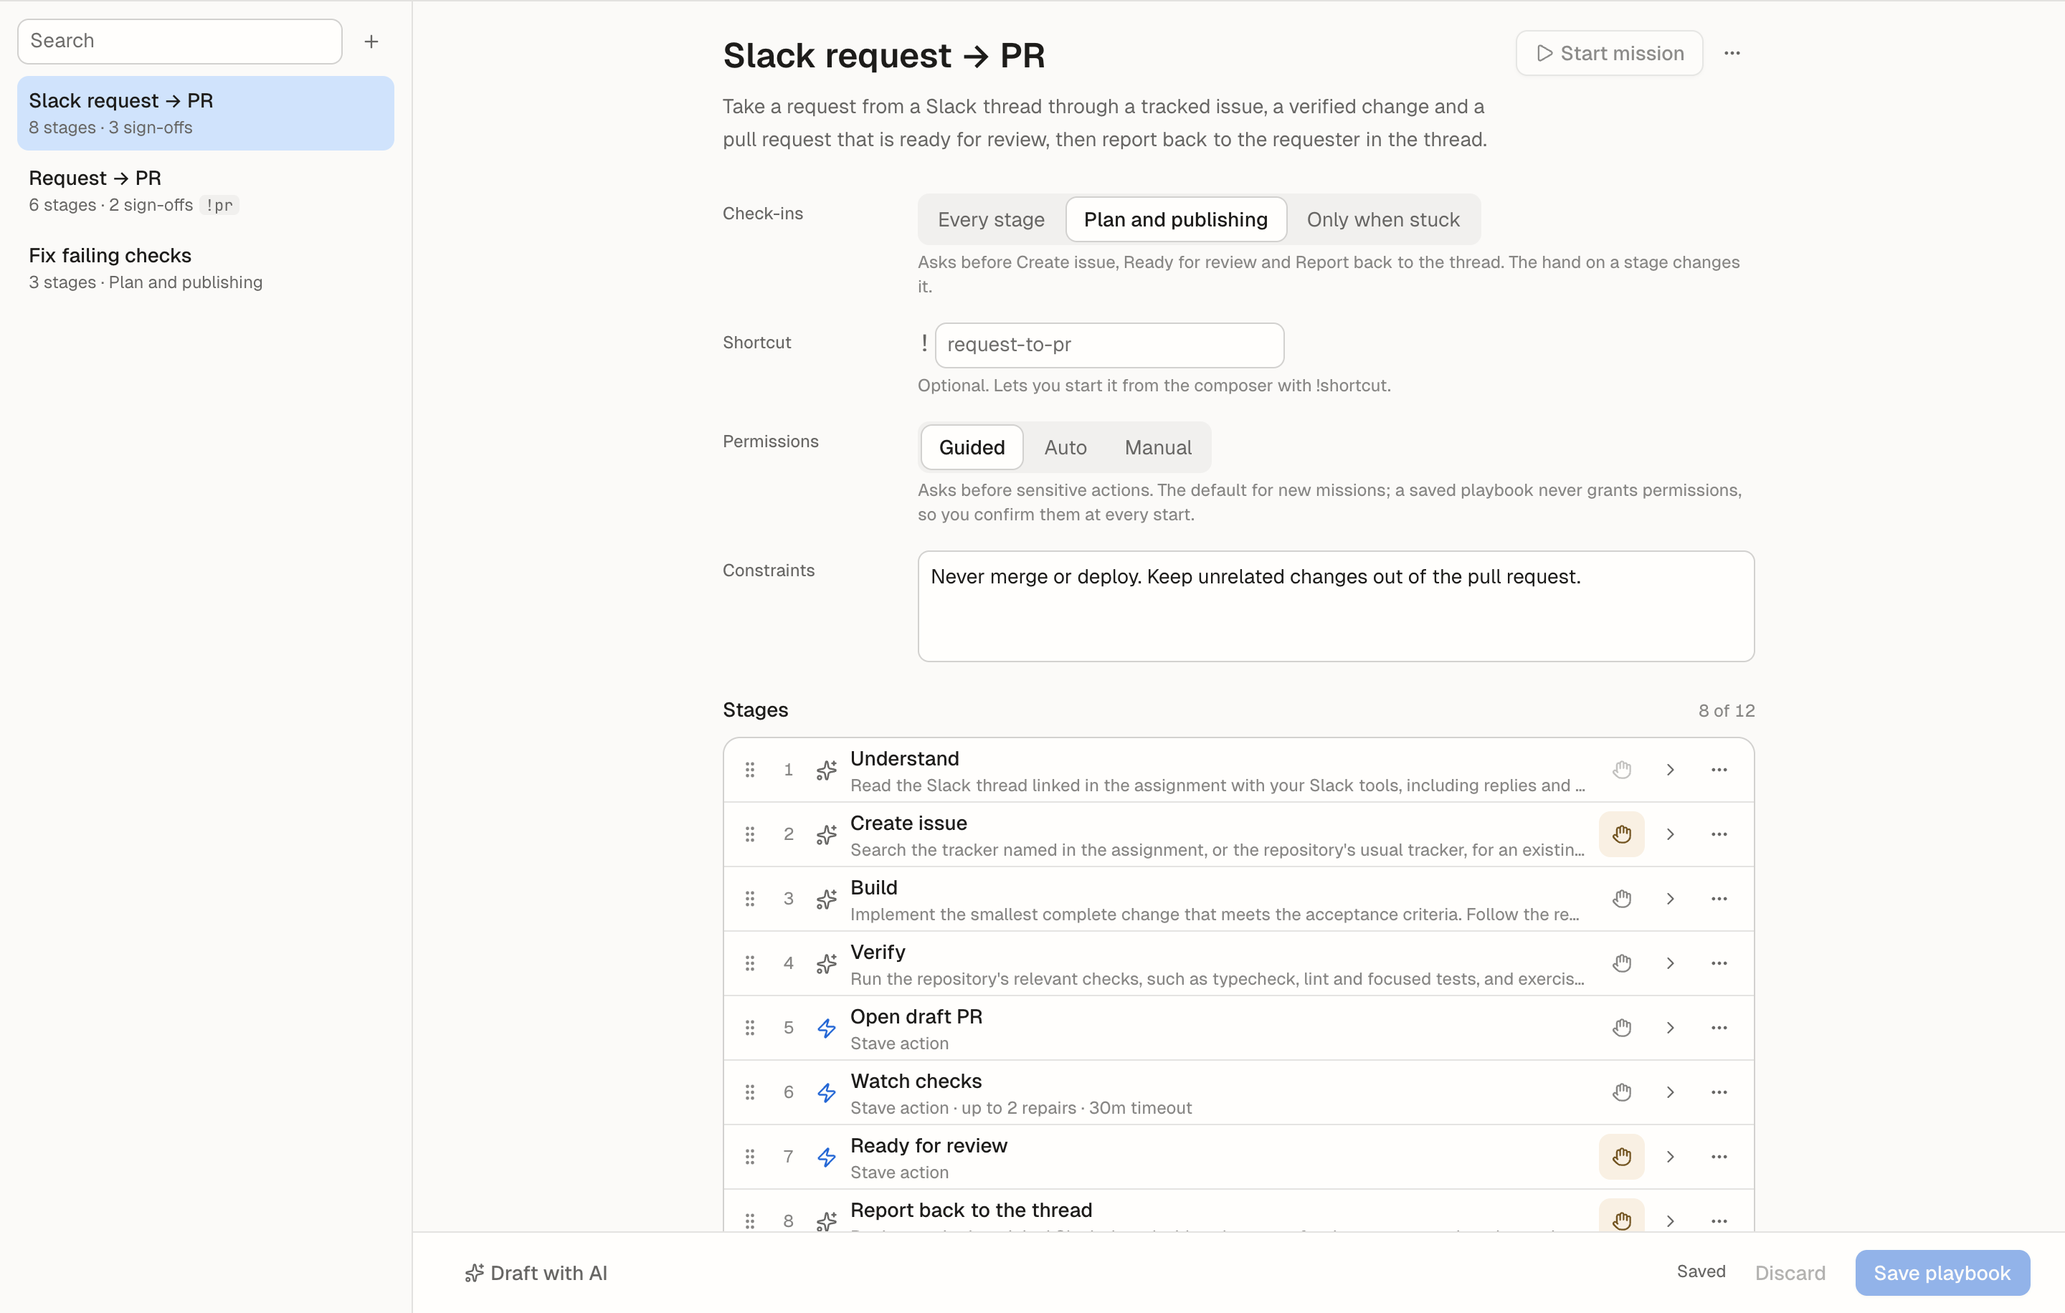
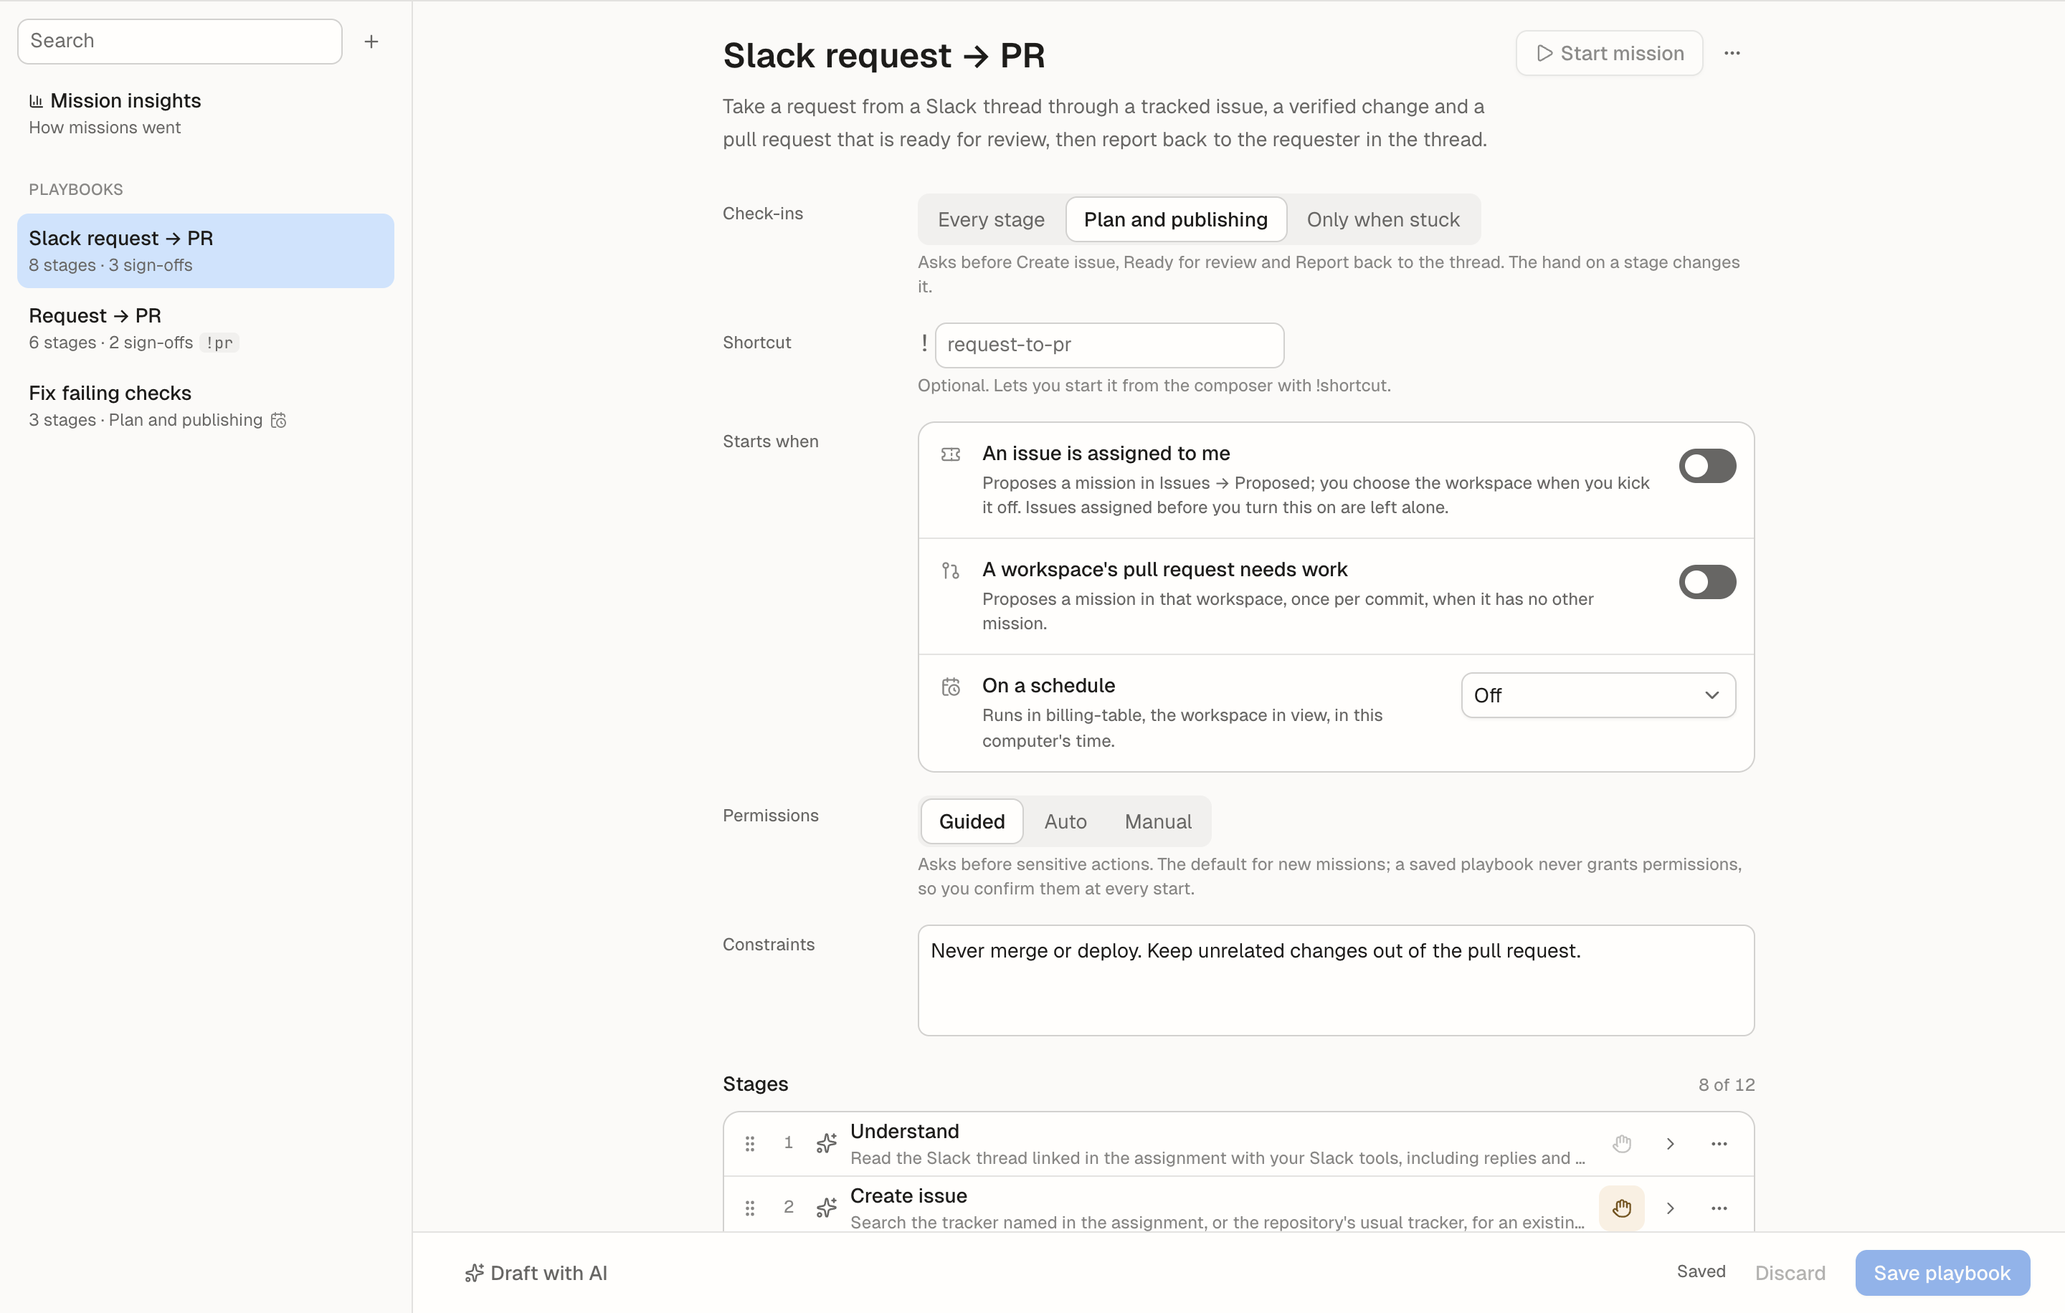
docs: document playbook start conditions and proposed missions

diff --git a/site/src/landing-page.tsx b/site/src/landing-page.tsx
@@ -98,7 +98,7 @@ const HANDOFF_STEPS = [
   {
     title: "Save how you work as a playbook",
     description:
-      "The stages you would otherwise prompt one by one — understand, build, verify, open a PR — each with when it is done and whether it asks you first.",
+      "The stages you would otherwise prompt one by one — understand, build, verify, open a PR — each with when it is done and whether it asks you first. A new issue, failing checks or a schedule can propose the next mission.",
     href: "./docs/playbooks/",
     icon: BookOpen,
   },

diff --git a/docs/features/issues.md b/docs/features/issues.md
@@ -44,7 +44,7 @@ The workspace is created, the ticket is filed in the workspace Information panel
 ### Key Controls
 
 - **Header** — per-source sync age in Jira-then-Crane order, a `stale` chip when a source has missed two refresh intervals, a `partial` chip when the tracker had more rows than the page budget allows, plus Refresh and Close. A footer under the list repeats that the loaded set is a prefix.
-- **View tabs** — *Assigned to me*, *All open*, *Recently done* (closed in the last 14 days), *In Stave* (has a Stave run). Switching tabs clears the filter chips, because the chips mean something different in each view.
+- **View tabs** — *Assigned to me*, *All open*, *Recently done* (closed in the last 14 days), *In Stave* (has a Stave run). Switching tabs clears the filter chips, because the chips mean something different in each view. After a divider, *Proposed* lists the [missions playbooks proposed](#proposed-missions).
 - **Filter chips** — Source, Status, Priority, Project, Label, and an *In Stave / Not in Stave* selector. Each chip is multi-select and shows what is selected; Reset clears the chips and keeps the tab.
 - **Layout** — List or Board. List is the grouped row surface. Board is one column per status category. Switching layout keeps the same filters and sort; grouping is list-only because the board already groups by status.
 - **Group and Sort** — in List, group by Status or Due date; in both layouts, sort by Priority, Due date, Updated, or Key. Group headers collapse and show a count.
@@ -88,13 +88,36 @@ Right-click a row and choose **Attach to `<workspace>`**. The ticket is register
 - For a Crane kickoff with write-back, the run card reads *Reported to Crane*; without it, *Local only*.
 - A finished run flips the badge to *Done in Stave*; a failed one to *Failed*, with the error code on the run card.
 
+### Proposed Missions
+
+The **Proposed** tab lists missions that a playbook's
+[start conditions](playbooks.md#start-conditions) or a triage mission
+proposed: for an assigned issue, a pull request that needs work, a schedule,
+or a request found while triaging. Its count shows on the tab, and Fleet's
+header shows **N proposed** while any wait; clicking it opens this tab.
+
+![Issues → Proposed: missions waiting to start, each with its source, reason, playbook and workspace, and below them the ones decided recently](../screenshots/proposed-missions.png)
+
+- Each row names the source, why it was proposed, the playbook, where it runs
+  and how long ago. The link icon opens the issue, pull request or thread.
+- **Kick off** (an issue) opens the ticket's kickoff with the playbook chosen.
+  **Start** creates a task in the pull request's or schedule's workspace — or,
+  for a triage proposal, in the workspace open now — and opens **Start a
+  mission** with the assignment filled in. The proposal is marked started once
+  the mission starts.
+- **Dismiss** sets it aside. The same issue, commit or request is never
+  proposed again.
+- **Decided recently** lists the last started and dismissed proposals,
+  including missions a playbook started on its own, with **Open** to go to
+  one.
+
 ### Wake A Project When An Issue Arrives
 
 A [project](projects.md) can watch Issues: turn on **An issue is assigned to
 me** in the project's **Starts when** tab. A newly assigned issue then wakes
 the project's coordinator, which decides whether a mission should follow.
-While any project watches, Stave keeps Issues fresh in the background, at most
-every ten minutes, even when the Issues view is closed.
+While any project or playbook watches, Stave keeps Issues fresh in the
+background, at most every ten minutes, even when the Issues view is closed.
 
 ## Files And Data
 
@@ -165,3 +188,4 @@ every ten minutes, even when the Issues view is closed.
 - [Provider Sandbox and Approval Guide](provider-sandbox-and-approval.md) — what the autonomy presets mean
 - [Local MCP User Guide](local-mcp-user-guide.md) — the read-only tracker listing tool
 - [Missions](missions.md)
+- [Playbooks](playbooks.md#start-conditions) — start conditions that propose missions

diff --git a/docs/features/playbooks.md b/docs/features/playbooks.md
@@ -7,7 +7,7 @@ by one, each with an instruction and a condition that says when it is done.
 Start a [mission](missions.md) with it and Stave runs the stages for you. A
 [project](projects.md)'s coordinator picks from the same playbooks.
 
-![The Playbooks tab: saved playbooks on the left, and the selected playbook's check-ins, shortcut, permissions, constraints and stages](../screenshots/playbooks.png)
+![The Playbooks tab: saved playbooks on the left, and the selected playbook's check-ins, shortcut, start conditions, permissions, constraints and stages](../screenshots/playbooks.png)
 
 ## When To Use It
 
@@ -46,6 +46,8 @@ Start a [mission](missions.md) with it and Stave runs the stages for you. A
   the stages that ask. Changing a single stage's hand marks the check-ins
   **Custom**; choosing a preset resets them.
 - **Shortcut** lets you start the playbook with `!shortcut` in the composer.
+- **Starts when** lets the playbook propose missions by itself (see
+  [Start conditions](#start-conditions)).
 - **Permissions** is the default the Start sheet preselects. It grants nothing
   by itself; every start confirms its own permissions.
 - **Constraints** are rules every stage follows.
@@ -77,6 +79,34 @@ a preview deployment, and waits for it — up to 30 minutes.
 - A script that was running when Stave stopped is not run again: the stage
   fails and says so, and **Retry stage** runs it anew.
 
+### Start conditions
+
+**Starts when** lists what proposes a mission with the playbook. Proposed
+missions wait in [Issues → Proposed](issues.md#proposed-missions) for you to
+start or dismiss them.
+
+- **An issue is assigned to me** — for each issue newly assigned to you in
+  Issues (Crane or Jira), optionally only those matching a label, project or
+  key. Issues assigned before you turned it on are left alone. Starting one
+  opens the ticket's kickoff with this playbook chosen, so you pick its
+  workspace.
+- **A workspace's pull request needs work** — when checks fail, changes are
+  requested, or both, on the pull request of any workspace. Once per commit,
+  and only in a workspace no other mission works in.
+- **On a schedule** — every day, weekdays, Mondays at 09:00 or every 4 hours,
+  in this computer's time, in the workspace in view when you turned it on. A
+  time that passed while Stave was closed is proposed when it opens, never
+  started late.
+- **Start on its own** — pull request and scheduled missions start without
+  asking, on a new task in their workspace. They consent to nothing outside
+  this machine: stages that publish, open pull requests or run scripts still
+  wait for you. A playbook whose first stage publishes always waits.
+
+Issues keep refreshing in the background, every 10 minutes, while a playbook
+watches for assigned issues. Pull requests are read as the workspace's PR
+status updates. A mission that starts on its own shows under **Decided
+recently** in Proposed with a link to it.
+
 ### Draft with AI
 
 Describe how you work in a sentence, or paste an example of the steps you took
@@ -100,6 +130,12 @@ The templates cover pull requests — **Request → PR**, **Slack request → PR
 **Research a question**, **Draft a decision document**, **Investigate a
 problem** (changes no files), **Plan, build and verify**, **Coordinate
 independent tasks** (through delegated tasks) and **Independent review**.
+
+**Triage requests** reads where requests reach you — the places its assignment
+names, otherwise your Slack mentions and tickets assigned to you — and proposes
+a mission for each one worth doing with `stave_propose_mission`. It proposes
+only; it never replies or starts work. Give it a schedule under **Starts
+when** to triage every morning.
 
 ### Save a playbook from a finished mission
 

diff --git a/docs/architecture/code-organization.md b/docs/architecture/code-organization.md
@@ -40,6 +40,7 @@ Additional focused owners:
 | Missions                         | `src/lib/missions/policy.ts` decides; `electron/host-service/supervision/mission-runtime.ts` performs turns and `mission-actions.ts` performs Stave actions; `src/lib/missions/mission-view.ts` projects what every surface shows; `src/lib/missions/usage.ts` sums what the mission's turns spent; `src/lib/missions/insights.ts` aggregates ended missions for Mission insights | `tests/mission-policy.test.ts`, `tests/mission-runtime.test.ts`, `tests/mission-actions.test.ts`, `tests/mission-scenarios.test.ts`, `tests/mission-usage.test.ts`, `tests/mission-insights.test.ts` |
 | Mission surfaces                 | `src/components/missions/` (bar, panel, sign-off, Start sheet, Fleet strip) over `src/store/missions-store.ts` and `src/store/fleet-missions-store.ts`; `src/lib/missions/start-sheet.ts` and `pre-start-checks.ts` hold the sheet's rules, including Start at | `tests/mission-bar.test.tsx`, `tests/mission-panel.test.tsx`, `tests/mission-start-consent.test.ts`, `tests/mission-start-at-stage.test.ts`, `tests/pre-start-checks.test.ts`, `tests/mission-fleet-attention.test.ts` |
 | Playbooks                        | `src/lib/playbooks/schema.ts` validates; `library.ts` edits; `draft-with-ai.ts` drafts; `src/components/playbooks/` is the Playbooks tab | `tests/playbook-library.test.ts`, `tests/playbook-editor.test.tsx`, `tests/e2e/playbooks.e2e.ts` |
+| Proposed missions                | `src/lib/playbooks/starts-when.ts` edits a playbook's start conditions; `electron/host-service/supervision/proposal-runtime.ts` evaluates them and records proposals over `electron/persistence/mission-store.ts`; `src/store/proposals-store.ts` loads them and hands pull requests to the host; `src/components/layout/issues/ProposedMissionsPanel.tsx` is Issues → Proposed | `tests/proposal-runtime.test.ts`, `tests/mission-tools.test.ts` |
 | Projects                         | `src/lib/projects/policy.ts` decides; `electron/host-service/supervision/project-runtime.ts` starts missions and wakes the coordinator over `electron/persistence/project-store.ts`; `src/lib/projects/briefing.ts` briefs the coordinator; `src/lib/projects/models.ts` lists the models a mission may run on, and `electron/host-service/idle-task.ts` opens a mission's task on one | `tests/idle-task.test.ts`, `tests/project-triggers.test.ts`, `tests/project-policy.test.ts`, `tests/project-runtime.test.ts`, `tests/project-store.test.ts`, `tests/project-memory-library.test.ts`, `tests/project-scenarios.test.ts` |
 | Project surfaces                 | `src/components/projects/` (Projects view, project home rows and tabs, Starts when, coordinator conversation, New project dialog, Fleet rollup) over `src/store/projects-store.ts`; `src/components/layout/SidebarPrimaryNav.tsx` lists open projects | `tests/project-home-view.test.tsx` |
 

diff --git a/docs/superpowers/specs/2026-09-26-projects-missions-playbooks-design.md b/docs/superpowers/specs/2026-09-26-projects-missions-playbooks-design.md
@@ -831,6 +831,22 @@ Phase 1 shipped as designed, with these deviations:
   computed from mission events for the report footer, and **Mission insights**
   in the Playbooks tab aggregates them per playbook and per provider over 7,
   30 or 90 days, with cost per mission.
+- **Start conditions (Phase 2).** A playbook's optional `startsWhen` replaces
+  the sketched `triggers` list: an assigned issue (with a filter), a
+  workspace's pull request with failing checks or requested changes, a
+  schedule in a named workspace, and `autoStart`. Each condition carries the
+  time it was turned on, and only later occurrences count. The host's proposal
+  runtime records every occurrence in `mission_trigger_seen` before any side
+  effect and proposals in `mission_proposals`. Issues come from the main
+  process's tracker cache; pull requests come from the renderer's PR status.
+  Auto-start covers pull request and schedule conditions only, in a workspace
+  no mission works in, with the first stage not publishing and no external
+  effect authorized. An issue proposal starts through the ticket's kickoff, so
+  the user picks its workspace.
+- **Proposed.** The Issues tab lists pending proposals with Start and Dismiss,
+  then those decided recently; Fleet's header shows the count. A triage
+  mission's `stave_propose_mission` defaults to Request → PR and dedupes by the
+  request's key. **Triage requests** is the triage template.
 
 
 ## 16. As Built (Phase 3)
@@ -862,8 +878,8 @@ Phase 3 shipped as designed, with these deviations:
   a newly assigned issue (from Issues, refreshed in the background while a
   project watches), on failing checks, requested changes or a merge of a
   mission's pull request, and on a schedule. They wake the coordinator only;
-  starting stays the coordinator's call and the user's approval. Standalone
-  mission triggers and the Proposed tab (Phase 2) are not built.
+  starting stays the coordinator's call and the user's approval. Playbook
+  start conditions and the Proposed tab are Phase 2 (see §15).
 - **Restarts.** Quitting pauses every active project with a marked reason and
   relaunching resumes exactly those; delivered changes are not re-sent, a
   start interrupted halfway is marked failed instead of replayed, and missed

diff --git a/docs/superpowers/plans/2026-09-26-projects-missions-playbooks.md b/docs/superpowers/plans/2026-09-26-projects-missions-playbooks.md
@@ -934,4 +934,21 @@ Built after the twenty changes, closing deviations the As-built notes list:
   schedule) wakes the coordinator through `collectPendingTriggers`, with seen
   occurrences kept in `project_trigger_seen`; the coordinator conversation
   docks beside the project.
-
+- [x] `feat(projects): pause projects on quit and end them on a date` —
+  quitting pauses active projects with a marked reason and relaunch resumes
+  exactly those; an end date expires a project.
+- [x] `feat(projects): search the library and link it from Information`.
+- [x] `feat(missions): compare missions per playbook and provider` —
+  `src/lib/missions/insights.ts` and **Mission insights** in the Playbooks tab.
+- [x] `feat(playbooks): add templates for work beyond pull requests`.
+- [x] `feat(missions): save a mission as a playbook and share its report to
+  Slack`.
+- [x] `feat(playbooks): run a workspace script as a stage` — the `run-script`
+  action.
+- [x] `feat(playbooks): propose missions from start conditions and triage` —
+  **Starts when** on playbooks (assigned issues, a workspace's pull request
+  needing work, a schedule, **Start on its own**), evaluated by
+  `electron/host-service/supervision/proposal-runtime.ts` with occurrences in
+  `mission_trigger_seen` and proposals in `mission_proposals`; Issues →
+  **Proposed**, Fleet's **N proposed**, `stave_propose_mission` and the
+  **Triage requests** template.

diff --git a/docs/features/local-mcp-user-guide.md b/docs/features/local-mcp-user-guide.md
@@ -44,7 +44,7 @@ The same Local MCP server also exposes optional `stave_lens_*` tools for workspa
 
 Two tool families exist only inside turns Stave starts for a supervisor, and never in an external client's session:
 
-- **Mission tools** (`stave_get_mission`, `stave_report_stage`, `stave_block_stage`) are registered for a [mission](missions.md)'s stage turns, which carry a per-turn mission key. The agent reads its stage and reports it done or blocked through them.
+- **Mission tools** (`stave_get_mission`, `stave_report_stage`, `stave_block_stage`, `stave_propose_mission`) are registered for a [mission](missions.md)'s stage turns, which carry a per-turn mission key. The agent reads its stage and reports it done or blocked through them. `stave_propose_mission` lets a triage mission propose a mission for a request it found; the proposal waits in [Issues → Proposed](issues.md#proposed-missions) and starts nothing, and the same request key is never proposed twice.
 - **Project tools** (`stave_get_project`, `stave_start_mission`, `stave_list_missions`, `stave_get_mission_report`, `stave_note_project`) are registered for a [project](projects.md) coordinator's turns, which carry a per-turn project key. Stave resolves the mission or project from the key, so a turn can act only for its own.
 
 Missions and projects need Local MCP on; without it a mission cannot start and a coordinator cannot plan.

diff --git a/docs/features/missions.md b/docs/features/missions.md
@@ -54,6 +54,10 @@ right.
   [Issues](issues.md) kickoff sheet: Stave prepares the workspace and task,
   then opens the Start sheet on it.
 - **Start mission** in a playbook's editor (Automations → Playbooks).
+- **Start** or **Kick off** on a proposed mission in
+  [Issues → Proposed](issues.md#proposed-missions). A playbook's
+  [start conditions](playbooks.md#start-conditions) propose missions there,
+  and can start pull request and scheduled missions on their own.
 
 ### Start a mission
 
@@ -211,6 +215,9 @@ agent stopped reporting.
   reads are part of the cost but not of the token count.
 - A mission started at a later stage has no acceptance criteria from
   **Understand**, so its report shows only what the stages that ran reported.
+- A mission a start condition started on its own consents to nothing outside
+  this machine: a stage that publishes, opens a pull request or runs a script
+  waits for your consent in the Mission panel.
 
 ## Troubleshooting
 
